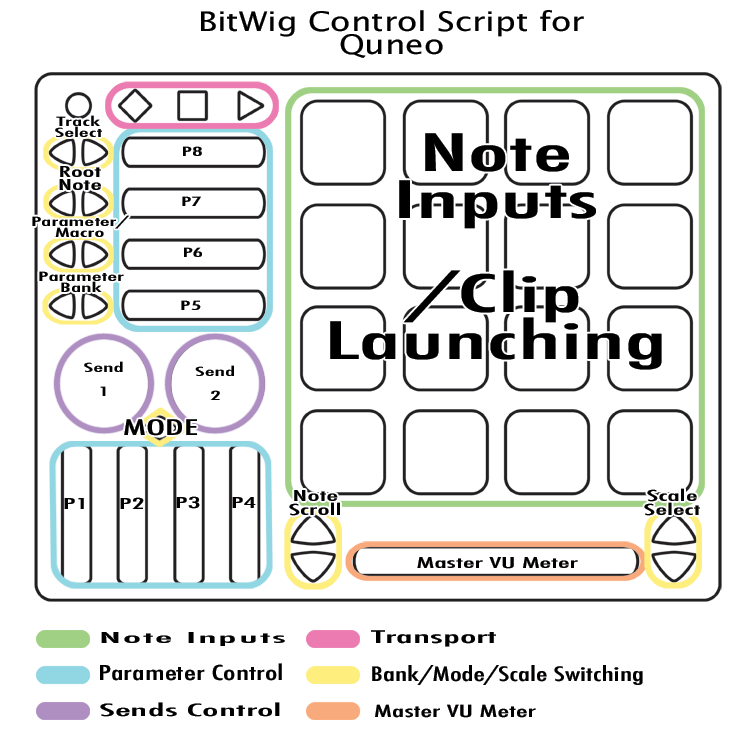
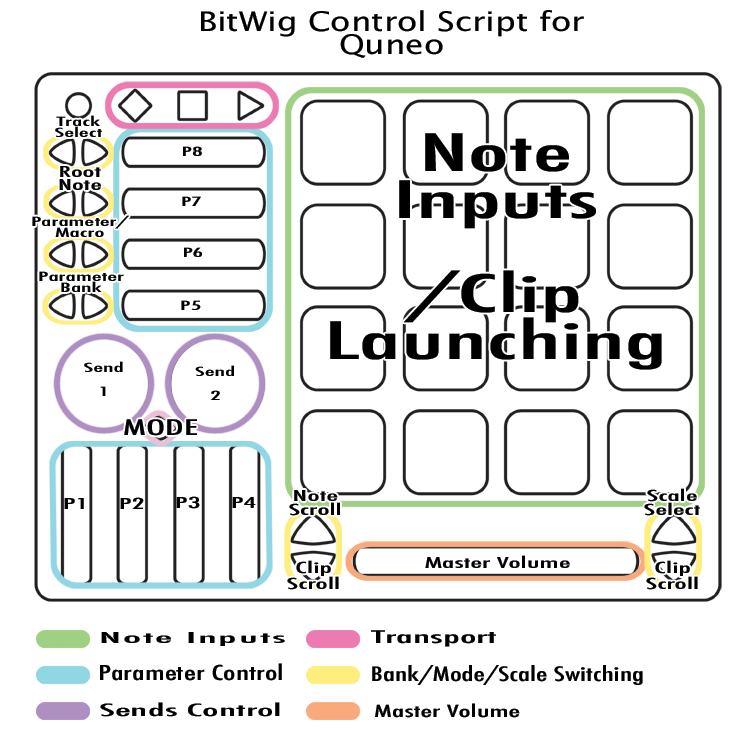
Changing behavior of rotaries/clip nav
Inverting the rotaries so they make more sense from a UX standpoint.
Changing the direction of the horizontal clip scrolling to make more
sense from a UX standpoint.

diff --git a/QUNEO_Script/QUNEO.control.js b/QUNEO_Script/QUNEO.control.js
@@ -115,17 +115,36 @@ function init()
 	{
 		sendMidi(176, 5, value)
 		masterValue = value
+		
 	})
+
+	cursorTrack.addTrackTypeObserver(10, "track", function(name)
+		{
+			if (name == "Effect" || name == "Master"){
+				sendMidi(176, 6, 0)
+				sendMidi(176, 7, 0)
+
+			}
+		})
 
 	cursorTrack.getSend(0).addValueObserver(128 ,function(value)
 	{
-		sendMidi(176, 6, value);
+		display = (value + 64) % 128
+		if (display > 63 && display < 72){
+			display = 72
+		}
+		sendMidi(176, 6, display)
 		sendValues[0] = value
+		
 	})
 	
 	cursorTrack.getSend(1).addValueObserver(128 ,function(value)
 	{
-		sendMidi(176, 7, value);
+		display = (value + 64) % 128
+		if (display > 63 && display < 72){
+			display = 72
+		}
+		sendMidi(176, 7, display)
 		sendValues[1] = value
 	})
 
@@ -286,10 +305,10 @@ function onMidi(status, data1, data2)
 					}else if (data1 > 8 && data1 < 11)
 						{ if (data1 == 9)
 							{
-								cursorTrack.getSend(0).set(data2,128);
+								cursorTrack.getSend(0).set((data2 + 64) % 128,128);
 						}else
 							{
-								cursorTrack.getSend(1).set(data2, 128);
+								cursorTrack.getSend(1).set((data2 + 64) % 128, 128);
 							}	
 					}else if (data1 == 11){
 						master.getVolume().set(data2, 128)
@@ -313,16 +332,16 @@ function onMidi(status, data1, data2)
 				clipLaunching(data1, data2)
 				clipScroll(data1, data2)
 			
-							if (modeSelect == true && data1 < 8)
-							{	
-							
-								padPage = notePage
-								
-							}else if (modeSelect == true && data1 > 7 && data1 < 16 )
-							{
-								padPage = clipPage
-								
-							}
+				if (modeSelect == true && data1 < 8)
+				{	
+				
+					padPage = notePage
+					
+				}else if (modeSelect == true && data1 > 7 && data1 < 16 )
+				{
+					padPage = clipPage
+					
+				}
 						
 				
 				if (data1 == 32 && data2 == 127)

diff --git a/QUNEO_Script/QUNEO_clips.js b/QUNEO_Script/QUNEO_clips.js
@@ -35,14 +35,14 @@ function clipScroll(data1, data2)
 	if (padPage == clipPage){
 		if(data1 == 25 && data2 == 127){
 			trackBank.scrollScenesUp()
-			println("hey")
+
 		}else if(data1 == 26 && data2 == 127){
 			trackBank.scrollScenesDown()
 
-		}else if(data1 == 27 && data2 == 127){
+		}else if(data1 == 28 && data2 == 127){
 			trackBank.scrollTracksDown()
 
-		} else if(data1 == 28 && data2 == 127){
+		} else if(data1 == 27 && data2 == 127){
 			trackBank.scrollTracksUp()
 
 		} 
